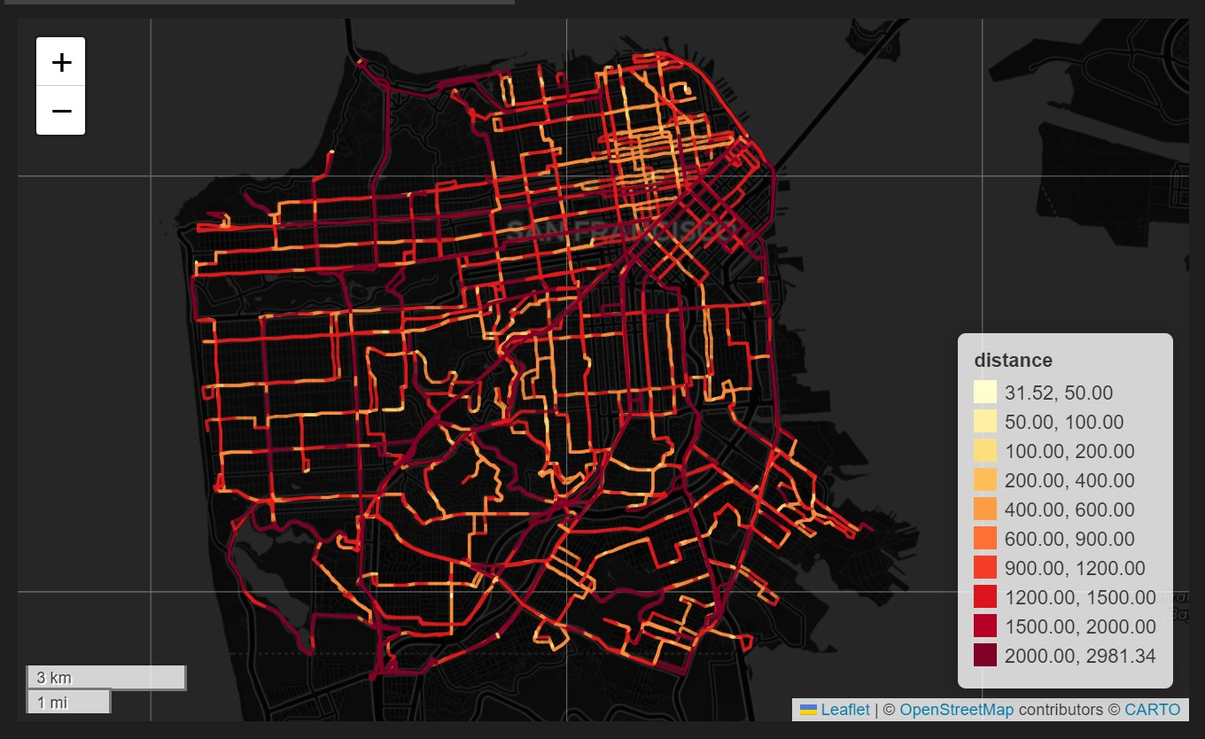
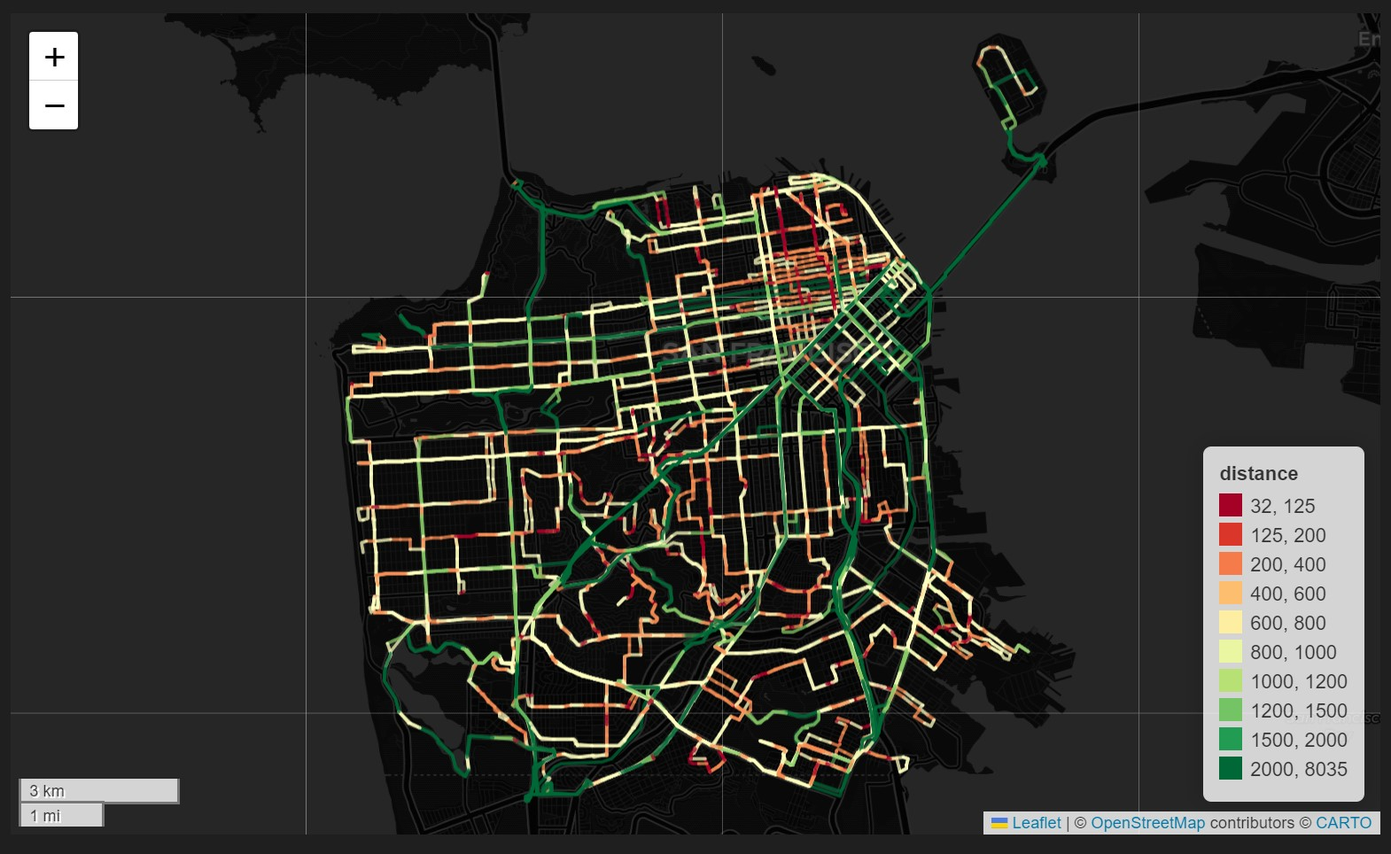
more paper changes

diff --git a/gtfs_segments/geom_utils.py b/gtfs_segments/geom_utils.py
@@ -371,7 +371,9 @@ def increase_resolution(geom: LineString, spat_res: int = 5) -> LineString:
     return LineString(new_ls)
 
 
-def ret_high_res_shape(shapes: gpd.GeoDataFrame, trips: pd.DataFrame, spat_res: int = 5) -> gpd.GeoDataFrame:
+def ret_high_res_shape(
+    shapes: gpd.GeoDataFrame, trips: pd.DataFrame, spat_res: int = 5
+) -> gpd.GeoDataFrame:
     """
     This function increases the resolution of the geometries in a given dataframe of shapes by a
     specified spatial resolution.
@@ -389,7 +391,9 @@ def ret_high_res_shape(shapes: gpd.GeoDataFrame, trips: pd.DataFrame, spat_res: 
     """
     shape_ids = trips.shape_id.unique()
     shapes = shapes[shapes.shape_id.isin(shape_ids)].copy()
-    high_res_shapes = [increase_resolution(row["geometry"], spat_res) for i, row in shapes.iterrows()]
+    high_res_shapes = [
+        increase_resolution(row["geometry"], spat_res) for i, row in shapes.iterrows()
+    ]
     shapes.geometry = high_res_shapes
     return shapes
 
@@ -411,7 +415,7 @@ def ret_high_res_shape_parallel(shapes: gpd.GeoDataFrame, spat_res: int = 5) -> 
       a GeoDataFrame with the geometry column updated to have higher resolution shapes.
     """
 
-    def process_shape(row):
+    def process_shape(row: pd.core.series.Series) -> LineString:
         return increase_resolution(row["geometry"], spat_res)
 
     high_res_shapes = []
@@ -669,28 +673,28 @@ def view_heatmap(
     if interactive:
         if column == "distance":
             fmap = df_filtered.explore(
-                column=column,
-                scheme="UserDefined",
-                tooltip=["segment_id", "distance"],
-                tiles="CartoDB Positron" if light_mode else "CartoDB Dark Matter",
-                legend=True,
-                cmap=cmap,  # YlOrRd
-                classification_kwds=dict(bins=bins),
-                legend_kwds=dict(colorbar=False),
-                style_kwds=dict(opacity=0.75, fillOpacity=0.75),
-                popup=True,
+                column = column,
+                scheme = "UserDefined",
+                tooltip = ["segment_id", "distance"],
+                tiles = "CartoDB Positron" if light_mode else "CartoDB Dark Matter",
+                legend = True,
+                cmap = cmap,  # YlOrRd
+                classification_kwds = dict(bins=bins),
+                legend_kwds = dict(colorbar=False, fmt="{:.0f}"),
+                style_kwds = dict(opacity=0.75, fillOpacity=0.75),
+                popup = True,
             )
         else:
             fmap = df_filtered.explore(
-                column=column,
-                cmap=cmap,  # YlOrRd
-                tooltip=["segment_id", column],
-                tiles="CartoDB Positron" if light_mode else "CartoDB Dark Matter",
-                legend=True,
-                style_kwds=dict(opacity=0.75, fillOpacity=0.75),
-                popup=True,
-                scheme="Quantiles",
-                legend_kwds=dict(colorbar=False),
+                column = column,
+                cmap = cmap,  # YlOrRd
+                tooltip = ["segment_id", column],
+                tiles = "CartoDB Positron" if light_mode else "CartoDB Dark Matter",
+                legend = True,
+                style_kwds = dict(opacity=0.75, fillOpacity=0.75),
+                popup = True,
+                scheme = "Quantiles",
+                legend_kwds = dict(colorbar=False, fmt="{:.0f}"),
             )
         return fmap
     else:

diff --git a/gtfs_segments/mobility.py b/gtfs_segments/mobility.py
@@ -15,7 +15,7 @@ ABBREV_LINK = (
 
 
 def fetch_gtfs_source(
-    place: Optional[str] = "ALL",
+    place: str = "ALL",
     country_code: Optional[str] = "US",
     active: Optional[bool] = True,
     use_fuzz: bool = False,
@@ -192,12 +192,11 @@ def summary_stats_mobility(
     df: pd.DataFrame,
     folder_path: str,
     filename: str,
-    b_day: date,
     link: str,
     bounds: List,
     max_spacing: float = 3000,
-    export=False,
-) -> pd.DataFrame:
+    export: bool = False
+) -> Optional[pd.DataFrame]:
     """
     It takes in a dataframe, a folder path, a filename, a busiest day, a link, a bounding box, a max
     spacing, and a boolean for exporting the summary to a csv.
@@ -266,7 +265,6 @@ def summary_stats_mobility(
     weighted_data = np.hstack([np.repeat(x, y) for x, y in zip(df["distance"], df.traversals)])
     df_dict = {
         "Name": filename,
-        "Busiest Day": b_day,
         "Link": link,
         "Min Latitude": bounds[0][1],
         "Min Longitude": bounds[0][0],
@@ -295,6 +293,7 @@ def summary_stats_mobility(
             print("Saved the summary.csv in " + folder_path)
         except FileNotFoundError as e:
             print("Error saving the summary.csv: " + str(e))
+        return None
     else:
         summary_df = summary_df.T
         return summary_df

diff --git a/paper/paper.md b/paper/paper.md
@@ -1,5 +1,5 @@
 ---
-title: 'GTFS Segments: A fast and efficient library to generate bus stop spacings'
+title: 'GTFS Segments: A Fast and Efficient Library to Generate Bus Stop Spacings'
 tags:
   - Python
   - GTFS
@@ -25,18 +25,18 @@ bibliography: paper.bib
 header-includes: |
     \usepackage{caption}
     \usepackage{subcaption}
+    \usepackage{graphicx}
 ---
 
 # Summary
 
-The GTFS Segments (gtfs-segments) library is an open-source Python toolkit for computing, visualizing and analyzing bus stop spacings: the distance a transit bus travels between stops. The library reads General Transit Feed Specification (GTFS) data, snaps bus stops to points along routes, divides routes into segments (the pieces of routes between two stops), and then produces a `GeoDataFrame` containing information about each segment. The library also features several functions that act on this GeoDataFrame. It can produce summary statistics of the spacings for a given network, using various weighting schemes (i.e., weighting by frequency of service), as well as histograms of spacings that display their full distribution. In addition to network-level statistics, the package can also compute statistics for each route, such as its length, headway, speed, and average stop spacing. It can draw maps of networks, routes, or segments over a basemap---which allows the user to manually validate data. The segments DataFrame can be exported to `.csv` and `.geojson` files. The package can fetch the most up-to-date GTFS data from Mobility Data[@MobData2023] repositories for user convenience.
-
+The GTFS Segments (gtfs-segments) library is an open-source Python toolkit for computing, visualizing and analyzing bus stop spacings: the distance a transit bus travels between stops. The library reads General Transit Feed Specification (GTFS) data, snaps bus stops to points along routes, divides routes into segments (the pieces of routes between two stops), and then produces a `GeoDataFrame` containing information about each segment. The library also features several functions that act on this GeoDataFrame. It can produce summary statistics of the spacings for a given network, using various weighting schemes (i.e., weighting by frequency of service), as well as histograms of spacings that display their full distribution. In addition to network-level statistics, the package can also compute statistics for each route, such as its length, headway, speed, and average stop spacing. It can draw maps of networks, routes, or segments over a basemap---which allows the user to manually validate data. The segments DataFrame can be exported to `.csv` and `.geojson` files. The package can fetch the most up-to-date GTFS data from Mobility Data [@MobData2023] repositories for user convenience.
 
 # Statement of need
 
-The choice of bus stop spacing involves a tradeoff between accessibility and speed: wider spacings mean passengers must travel farther to/from stops, but they allow the bus to move faster[@Wu2022]. Many US transit agencies have recently carried out *stop consolidation* campaigns that systematically remove stops, due partly to the perception US stop spacings are much narrower than those abroad. However, there are no reliable data sources to obtain current stop spacings despite the wide adoption of General Transit Feed Specification (GTFS) [@Voulgaris2023Predictors], because GTFS does not include data on stop spacings directly. Spacings must be computed from route shape geometries, stop locations, and stop sequences. A challenge is that stop locations are not placed on top of route shapes and therefore must be somehow projected onto the route's `LINESTRING`. To make spacings available for analysis, `gtfs-segments` use k-dimensional spatial trees and k-nearest neighbor heuristics to snap stops to routes and divide routes into segments for computation of spacings, as described below.
+The choice of bus stop spacing involves a tradeoff between accessibility and speed: wider spacings mean passengers must travel farther to/from stops, but they allow the bus to move faster [@Wu2022]. Many US transit agencies have recently carried out *stop consolidation* campaigns that systematically remove stops, due partly to the perception US stop spacings are much narrower than those abroad. However, there are no reliable data sources to obtain current stop spacings despite the wide adoption of General Transit Feed Specification (GTFS) [@Voulgaris2023Predictors], because GTFS does not include data on stop spacings directly. Spacings must be computed from route shape geometries, stop locations, and stop sequences. A challenge is that stop locations are not placed on top of route shapes and therefore must be somehow projected onto the route's `LINESTRING`. To make spacings available for analysis, `gtfs-segments` use k-dimensional spatial trees and k-nearest neighbor heuristics to snap stops to routes and divide routes into segments for computation of spacings, as described below.
 
-`gtfs-segments` was designed for researchers, transit planners, students and anyone interested in bus networks. The package has been used in several scholarly articles [@devunuri2023bus; @devunuri2023chatgpt; @lehe4135394bus] and to create databases of spacings for over 550 agencies in the US [@DVN/SFBIVU_2022] and 80 agencies in Canada[@DVN/QFTAPM_2023]. Several transit agencies, such as Regional Transportation District Denver (RTD- Denver), have used the package to visualize the effects of their bus stop consolidation efforts. Filtering functions allow the user to explore datasets, identify errors and compute specialized statistics.
+`gtfs-segments` was designed for researchers, transit planners, students and anyone interested in bus networks. The package has been used in several scholarly articles [@devunuri2023bus; @devunuri2023chatgpt; @lehe4135394bus] and to create databases of spacings for over 550 agencies in the US [@DVN/SFBIVU_2022] and 80 agencies in Canada [@DVN/QFTAPM_2023]. Several transit agencies, such as Regional Transportation District Denver (RTD- Denver), have used the package to visualize the effects of their bus stop consolidation efforts. Filtering functions allow the user to explore datasets, identify errors and compute specialized statistics.
 
 # Functionality
 
@@ -44,138 +44,102 @@ The `gtfs-segments` package has four main functionalities: (1) Acquiring GTFS fe
 
 ## Acquiring GTFS feeds
 
-GTFS feeds undergo frequent changes, and obtaining the latest feed is essential to calculate up-to-date stop spacings. The package provides a convenient functionality to source and download over 1100 active GTFS feeds from across the world (over 550 in the US and 80 in Canada) from Mobility Database Catalogs[@MobData2023]. The package includes keyword search functionality to search for GTFS feeds using either the name of the provider (full name or abbreviation) or the place (city or state[^1]). Additionally, to account for typographical errors, the package also implements a fuzzy search feature by matching sub-strings based on Levenshtein distance[@levenshtein1965binary] algorithm, which is used popularly in text auto-correct.
+GTFS feeds undergo frequent changes, and obtaining the latest feed is essential to calculate up-to-date stop spacings. The package facilitates accessing over 1100 active GTFS feeds from across the world from Mobility Database Catalogs [@MobData2023]. It includes keyword search functionality to search for GTFS feeds using either the name of the provider (full name or abbreviation) or the place (city or state[^1]). Additionally, to account for typographical errors, the package also implements a fuzzy search feature by matching sub-strings based on the Levenshtein distance [@levenshtein1965binary] algorithm.
 
 [^1]: Search by state is currently applicable only to the US alone.
 
 ## Computing segments
 
-A `segment` is defined by three elements: (i) a start stop, (ii) an end stop and (iii) the path that the bus travels along the route in between the two consecutive stops. The segments are computed using route shape geometries and stop locations included in GTFS data. Packages such as `gtfs2gps`[@pereira2023exploring] and `gtfs_functions`[@Toso2023] can compute segments, but this package does so in computationally-efficient way and includes a new way to account for *errors* in the GTFS feed.
+A `segment` is defined by three elements: (i) a start stop, (ii) an end stop and (iii) the path that the bus travels along the route in between the two consecutive stops. The segments are computed using route shape geometries and stop locations included in GTFS data. Packages such as `gtfs2gps` [@pereira2023exploring] and `gtfs_functions` [@Toso2023] can compute segments, but this package has the following advantages:
 
-Firstly, unlike `gtfs2gps`, we filter the feed to use trips scheduled on the busiest day alone. We also filter unusual trips on the busiest day such as trips with considerably fewer traversals and trips added due to an exception in the service on `busiest_day`. Next, while processing the feed, we group trips based on their respective route shapes and process a representative trip in the group instead of all trips. While computing segments, we parallelize several intermediate steps on multiple CPU cores. However, without parallel processing, the `gtfs_segments` is faster than its alternatives at computing segments on most feeds. \autoref{tab:comparison} shows a comparison of the average processing rate[^2] for `gtfs2gps`, `gtfs_functions`, and `gtfs_segmnets` packages. The experiments were run with an `Intel(R) Core(TM) i9-10920X` processor at 3.50GHz with 12 hyperthreaded CPU cores and 64 GB RAM, running on Windows. As of February 2024, the most recent GTFS feeds of the respective agencies are tested. The results demonstrate that our package has the best processing rate for all GTFS feeds tested, both with and without parallel processing.
+- Faster processing rate[^2] both with and without parallel processing, as evidenced by \autoref{tab:comparison}
+- Computationally efficient through lazy loading; using trips only on `busiest_day`; and processing representative trips instead of all trips.
+- Filters unusual trips on the `busiest_day` such as trips with considerably fewer traversals or added as an exception to regular service.
+- More tolerant to missing files, fields and non-conforming field datatypes and entries.
+- Lastly, we incorporate a new way to account for cases when the reported stop locations are misaligned with the route shapes (further detailed below).
 
-[^2]: The average processing rate is the average number of trips processed per second, averaged over 3 independent runs.
+[^2]: The average processing rate is the average number of trips processed per second, averaged over 3 independent runs. The experiments were run with an `Intel(R) Core(TM) i9-10920X` processor at 3.50GHz with 12 hyperthreaded CPU cores and 64 GB RAM, running on Windows. The most recent GTFS feeds (as of February 2024) for the respective agencies were used.
 
 \begin{table}[!h]
-\centering
-\resizebox{\textwidth}{!}{%
-\begin{tabular}{llc|cccc|}
-\cline{4-7}
-\multicolumn{3}{l|}{} &
-  \multicolumn{4}{c|}{Average Processing Rate (Trips/Second) {[}n=3{]}} \\ \hline
-\multicolumn{3}{|r|}{\textit{Package}} &
-  \multicolumn{1}{c|}{\textit{gtfs2gps}} &
-  \multicolumn{1}{c|}{\textit{gtfs\_functions}} &
-  \multicolumn{2}{c|}{\textit{gtfs\_segments}} \\ \hline
-\multicolumn{3}{|r|}{\textit{Parallel Processing}} &
-  \multicolumn{1}{c|}{\textit{Y}} &
-  \multicolumn{1}{c|}{\textit{N}} &
-  \multicolumn{1}{p{.5in}|}{\textit{\hfil N}} &
-  \multicolumn{1}{p{.5in}|}{\textit{\hfil Y}} \\ \hline
-\multicolumn{1}{|l|}{\textbf{Agency}} &
-  \multicolumn{1}{l|}{\textbf{City}} &
-  \textbf{\begin{tabular}[c]{@{}c@{}}File \\ Size\\  (MB)\end{tabular}} &
-  \multicolumn{1}{c|}{v2.1.0} &
-  \multicolumn{1}{c|}{v2.3.0} &
-  \multicolumn{2}{c|}{v2.1.0} \\ \hline
-\multicolumn{1}{|l|}{TheRide} &
-  \multicolumn{1}{l|}{Ann Arbor} &
-  1.5 &
-  \multicolumn{1}{c|}{-} &
-  \multicolumn{1}{c|}{272} &
-  \multicolumn{1}{c|}{388} &
-  \textbf{413} \\ \hline
-\multicolumn{1}{|l|}{\begin{tabular}[c]{@{}l@{}}Capital \\ Metro\end{tabular}} &
-  \multicolumn{1}{l|}{Austin} &
-  6.8 &
-  \multicolumn{1}{c|}{47} &
-  \multicolumn{1}{c|}{-} &
-  \multicolumn{1}{c|}{198} &
-  \textbf{206} \\ \hline
-\multicolumn{1}{|l|}{SFMTA} &
-  \multicolumn{1}{l|}{\begin{tabular}[c]{@{}l@{}}San \\ Francisco\end{tabular}} &
-  10.0 &
-  \multicolumn{1}{c|}{41} &
-  \multicolumn{1}{c|}{621} &
-  \multicolumn{1}{c|}{625} &
-  \textbf{716} \\ \hline
-\multicolumn{1}{|l|}{MBTA} &
-  \multicolumn{1}{l|}{Boston} &
-  14.9 &
-  \multicolumn{1}{c|}{87} &
-  \multicolumn{1}{c|}{325} &
-  \multicolumn{1}{c|}{388} &
-  \textbf{431} \\ \hline
-\multicolumn{1}{|l|}{SEPTA} &
-  \multicolumn{1}{l|}{Philadelphia} &
-  21.3 &
-  \multicolumn{1}{c|}{-} &
-  \multicolumn{1}{c|}{162} &
-  \multicolumn{1}{c|}{213} &
-  \textbf{260} \\ \hline
-\multicolumn{1}{|l|}{TriMet} &
-  \multicolumn{1}{l|}{Portland} &
-  35.5 &
-  \multicolumn{1}{c|}{64} &
-  \multicolumn{1}{c|}{85} &
-  \multicolumn{1}{c|}{103} &
-  \textbf{106} \\ \hline
-\end{tabular}%
-}
-\caption{Comparison of average processing times for gtfs2gps, gtfs\_functions and gtfs\_segments. An empty value (-) indicates that the respective package could not compute segments for the Feed}\label{tab:comparison}
+  \centering
+  \resizebox{\textwidth}{!}{%
+  \begin{tabular}{llc|cccc|}
+    \cline{4-7}
+    \multicolumn{3}{l|}{} &
+      \multicolumn{4}{c|}{Average Processing Rate (Trips/Second) {[}n=3{]}} \\ \hline
+    \multicolumn{3}{|r|}{\textit{Package}} &
+      \multicolumn{1}{c|}{\textit{gtfs2gps}} &
+      \multicolumn{1}{c|}{\textit{gtfs\_functions}} &
+      \multicolumn{2}{c|}{\textit{gtfs\_segments}} \\ \hline
+    \multicolumn{3}{|r|}{\textit{Parallel Processing}} &
+      \multicolumn{1}{c|}{\textit{Y}} &
+      \multicolumn{1}{c|}{\textit{N}} &
+      \multicolumn{1}{p{.5in}|}{\textit{\hfil N}} &
+      \multicolumn{1}{p{.5in}|}{\textit{\hfil Y}} \\ \hline
+    \multicolumn{1}{|l|}{\textbf{Agency}} &
+      \multicolumn{1}{l|}{\textbf{City}} &
+      \textbf{\begin{tabular}[c]{@{}c@{}}File \\ Size\\  (MB)\end{tabular}} &
+      \multicolumn{1}{c|}{v2.1.0} &
+      \multicolumn{1}{c|}{v2.3.0} &
+      \multicolumn{2}{c|}{v2.1.0} \\ \hline
+    \multicolumn{1}{|l|}{SFMTA} &
+      \multicolumn{1}{l|}{\begin{tabular}[c]{@{}l@{}}San \\ Francisco\end{tabular}} &
+      10.0 &
+      \multicolumn{1}{c|}{41} &
+      \multicolumn{1}{c|}{621} &
+      \multicolumn{1}{c|}{625} &
+      \textbf{716} \\ \hline
+    \multicolumn{1}{|l|}{MBTA} &
+      \multicolumn{1}{l|}{Boston} &
+      14.9 &
+      \multicolumn{1}{c|}{87} &
+      \multicolumn{1}{c|}{325} &
+      \multicolumn{1}{c|}{388} &
+      \textbf{431} \\ \hline
+    \multicolumn{1}{|l|}{TriMet} &
+      \multicolumn{1}{l|}{Portland} &
+      35.5 &
+      \multicolumn{1}{c|}{64} &
+      \multicolumn{1}{c|}{85} &
+      \multicolumn{1}{c|}{103} &
+      \textbf{106} \\ \hline
+  \end{tabular}%
+  }
+  \caption{Comparison of average processing times for gtfs2gps, gtfs\_functions and gtfs\_segments.}\label{tab:comparison}
 \end{table}
 
-Lastly, we incorporate a new way to account for cases when the reported stop locations are misaligned with the route shapes. \autoref{fig:example} provides some example cases where a stop is equidistant from multiple points on a route. Thus, projecting the stop onto the route or snapping to the nearest geo-coordinate (lat, lon) may produce errors, such as stops that are out-of-order or stops being snapped far from their locations. Also, the time complexity of projection or snapping is $O(mn)$ using brute force for `m` geo-coordinates that represent the route shape and `n` stops that have to be projected. 
+\autoref{fig:snapping_difficulty} provides example cases where a stop is equidistant from multiple points on a route. Here, projecting the stop onto the route or snapping to the nearest geo-coordinate (lat, lon) may produce errors, such as stops that are out-of-order or stops being snapped far from their locations. Also, the time complexity of projection or snapping is $O(nm)$ using brute force for `n` stops and `m` geo-coordinates that represent the route shape. `gtfs-segments` overcomes these challenges by increasing the route resolution (i.e., adding points in between geo-coordinates), using spatial k-d trees, and using more than one nearest neighbor. The increase in resolution allows stops to be snapped to nearby points. k-d trees [@maneewongvatana1999analysis] reduces the time complexity to $O(nlog(m))$ and makes it possible to compare among several snapping points without added computation. \autoref{fig:interpolate} shows a difficult example route. In the first panel, snapping to the nearest point produces out-of-order stops (3/4/2) and stop 5 is snapped far away from its location. In the second panel, increased resolution fixes 5's location problem but the ordering problem persists. In the third panel, we use the `k=3` nearest neighbors and thus find a proper ordering. Once every stop has been snapped to a geo-coordinate on the route shape, the shape is segmented between stops and each segment is represented by a `LineString` for entry in the GeoDataFrame. We start with `k=3` for the neighbors and double `k` until we find the correct sequence of stops or remove the corresponding trip. On average, fewer than 1% of trips fail, which can be manually corrected and validated by agencies.
 
 \begin{figure}[!h]
+\centering
+\begin{subfigure}[]{0.75\textwidth}
   \centering
-  \includegraphics[width =0.8\textwidth]{snapping_difficulty.jpg}
-  \caption{Example route shapes with stop locations that are equidistant from multiple points along the route.}\label{fig:example}
+  \includegraphics[width=\textwidth]{snapping_difficulty.jpg}
+  \caption{Example route shapes with stop locations that are equidistant from multiple points along the route.}
+  \label{fig:snapping_difficulty}
+\end{subfigure}
+\begin{subfigure}[]{0.75\textwidth}
+  \centering
+  \includegraphics[width=\textwidth]{interpolation.jpg}
+  \caption{Improvement in snapping due to an increase in resolution and using k-nearest neighbors. Adapted from ``Bus Stop Spacings Statistics: Theory and Evidence'' \cite{devunuri2023bus}}
+  \label{fig:interpolate}
+\end{subfigure}
+\caption{Handling misaligned stops that are far from their route shapes}
 \end{figure}
-
-
-`gtfs-segments` overcomes these challenges by increasing the route resolution (i.e., adding points in between geo-coordinates), using spatial k-d trees, and using more than one nearest neighbor. The increase in resolution allows stops to be snapped to nearby points. k-d trees[@maneewongvatana1999analysis] reduce the time complexity to $O(nlog(m))$ and make it possible to compare among several snapping points without added computation. \autoref{fig:interpolate} shows a difficult example route. In the first panel, snapping to the nearest point produces out-of-order stops (3/4/2) and stop 5 is snapped far away from its location. In the second panel, increased resolution fixes 5's location problem but the ordering problem persists. In the third panel, we use the `k=3` nearest neighbors and thus find a proper ordering. Once every stop has been snapped to a geo-coordinate on the route shape, the shape is segmented between stops and each segment is represented by a `LineString` for entry in the GeoDataFrame. In fact, `gtfs_segments` starts with `k=3` for the neighbors and doubles `k` until we find the correct sequence of stops or remove the corresponding trip. On average, fewer than 1% of trips fail, which can be manually corrected and validated by agencies. 
-
-![Improvement in snapping due to an increase in resolution and suing k-nearest neighbors. Adapted from "Bus Stop Spacings Statistics: Theory and Evidence" [@devunuri2023bus].\label{fig:interpolate}](interpolation.jpg){ width=80% }
 
 ## Visualizing stop spacings
 
-The computed segments are output as a `GeoDataFrame` which consists of the segments geometries represented using `LineString` or `MultiLineString`. The segments can be filtered based on the attributes such as distance, speed, route_id or traversals that are available in the dataframe.  These segments can be viewed using the `.plot()` method or can be imported into any GIS software for additional customization. The package natively provides functionality to view the stop spacings at different levels along with basemaps and stops overlayed. \autoref{fig:view_spacings} demonstrates the three hierarchical levels of viewing spacings: network, route, and segment. The network level pertains to the whole GTFS feed whereas the route and segment focus on the respective routes or segments alone. Within each level of display, the sub-levels can be highlighted. For example, at a network level, a particular route/ group of routes or a route and segment can be of focus. While each level provides a different perspective and attention to detail, the package also provides an interactive map feature that lets the user control the level of detail and select any segment of interest.
-
-\begin{figure}[!hp]
-\begin{subfigure}[]{0.45\textwidth}
-  \includegraphics{network_vis.jpg}
-  \caption{Network}
-  \end{subfigure}
-\begin{subfigure}[]{0.22\textwidth}
-  \includegraphics[width=\textwidth]{route_vis.jpg}
-  \caption{Route}
-\end{subfigure}
-\begin{subfigure}[]{0.25\textwidth}
-  \centering
-  \includegraphics[width=0.3\textwidth]{segment_vis.jpg}
-  \caption{Segment}
-\end{subfigure}
-\caption{Visualize stop spacings at network, route or segment level. SFMTA GTFS feed was used to generate these.}\label{fig:view_spacings}
-\end{figure}
-
-The package also provides a few other visualization features that using the individual segments obtained. The user can generate a heatmap (interactive and static) by assigning a color to the segment based on the value of the column of interest. The distance-based heatmap provides an overview of the distribution and density of stops and stop spacings. The colormap helps the user identify the hotspot of interest. For example \autoref{fig:seq} uses a sequential colormap to represent wide spacings in red which are not convenient from a user's perspective.  An alternative is to use a divergent colormap (see \autoref{fig:div}) which highlights spacings that are on extremes of the tradeoff between accessibility and speed. Besides heatmap, a full distribution of stop spacings can be obtained as a histogram,see \autoref{fig:hist}.  A histogram helps to identify the most frequent spacing and outliers. It can also reveal if the spacings are distributed evenly and around the mean.  For policymakers and planners, understanding the distribution of stop spacings can inform broader strategic decisions about transport network design, urban density, and land use planning. From a modeling perspective, it can aid with the decision to use an unimodal, bimodal or multimodal approximation of the network.
+The package allows viewing stop spacings at different hierarchical levels--network, route, and segment--with basemaps and stops overlayed. Moreover, the interactive map feature lets the user control the level of detail and select any segment of interest. Additionally, the user can generate a heatmap by mapping colors to segment values for a selected column. For example \autoref{fig:div}  shows a distance-based heatmap with a divergent colormap, which highlights spacings that are too wide or too narrow. Also, a full distribution of stop spacings can be obtained as a histogram, see \autoref{fig:hist}. Understanding the distribution of stop spacings can inform broader strategic decisions about transport network design and land use planning.
 
 \begin{figure}[!h]
-\begin{subfigure}[]{0.65\textwidth}
-  \centering
-  \includegraphics[width=\textwidth]{heatmap_interactive.jpg}
-  \caption{Interactive Heatmap [Sequential]}
-  \label{fig:seq}
-  \end{subfigure}
-\begin{subfigure}[]{0.45\textwidth}
-  \centering
-  \includegraphics[width=\textwidth]{heatmap.jpg}
-  \caption{Static Heatmap [Divergent]}
-  \label{fig:div}
-\end{subfigure}
 \centering
 \begin{subfigure}[]{0.5\textwidth}
+  \centering
+  \includegraphics[width=\textwidth]{heatmap_interactive.jpg}
+  \caption{Interactive Heatmap [Divergent]}
+  \label{fig:div}
+  \end{subfigure}
+\begin{subfigure}[]{0.45\textwidth}
   \centering
   \includegraphics[width=\textwidth]{hist.jpg}
   \caption{Histogram of stop spacings}
@@ -185,10 +149,11 @@ The package also provides a few other visualization features that using the indi
 \end{figure}
 
 ## Calculating stop spacing summary statistics
-In discussions about stop spacings or the process of consolidating stops, it is common to use statistical metrics like means and medians. These metrics are helpful in comparing different transportation agencies or tracking changes within an agency over time. The package provides the summary statistics at network and route levels. For the network as a whole, weighted mean and median values are calculated, incorporating weights based on segments, routes, and traversals (as outlined by [@devunuri2023bus]), in addition to providing measures of standard deviation and various quantiles. At a route level, we provide average values for stop spacings, bus spacings, headways, speeds, number of buses in operation, route lengths and journey times across all routes.
 
-# Acknowledgements
+In discussions about stop spacings, it is common to report statistical metrics like means and medians. These metrics help compare different agencies or track changes within an agency over time. At a network level, weighted mean and median values are provided, incorporating weights based on segments, routes, and traversals (as outlined by @devunuri2023bus), in addition to providing measures of standard deviation and various quantiles. At a route level, we provide average values for stop spacings, bus spacings, headways, speeds, number of buses in operation, route lengths and journey times across all routes.
 
-The `gtfs-segments` package draws its inspiration from `gtfs_functions`[@Toso2023], `gtfs2gps`[@pereira2023exploring], and `partridge`[@Whalen2023] repositories. We thank the contributors of these packages for their excellent work. We also extend our thanks to Mobility Data[@MobData2023] for compiling GTFS from around the globe and constantly maintaining them.
+# Acknowledgments
+
+The `gtfs-segments` package draws its inspiration from `gtfs_functions` [@Toso2023], `gtfs2gps` [@pereira2023exploring], and `partridge` [@Whalen2023] repositories. We thank the contributors of these packages for their excellent work. We also extend our thanks to Mobility Data [@MobData2023] for compiling GTFS from around the globe and constantly maintaining them.
 
 # References
